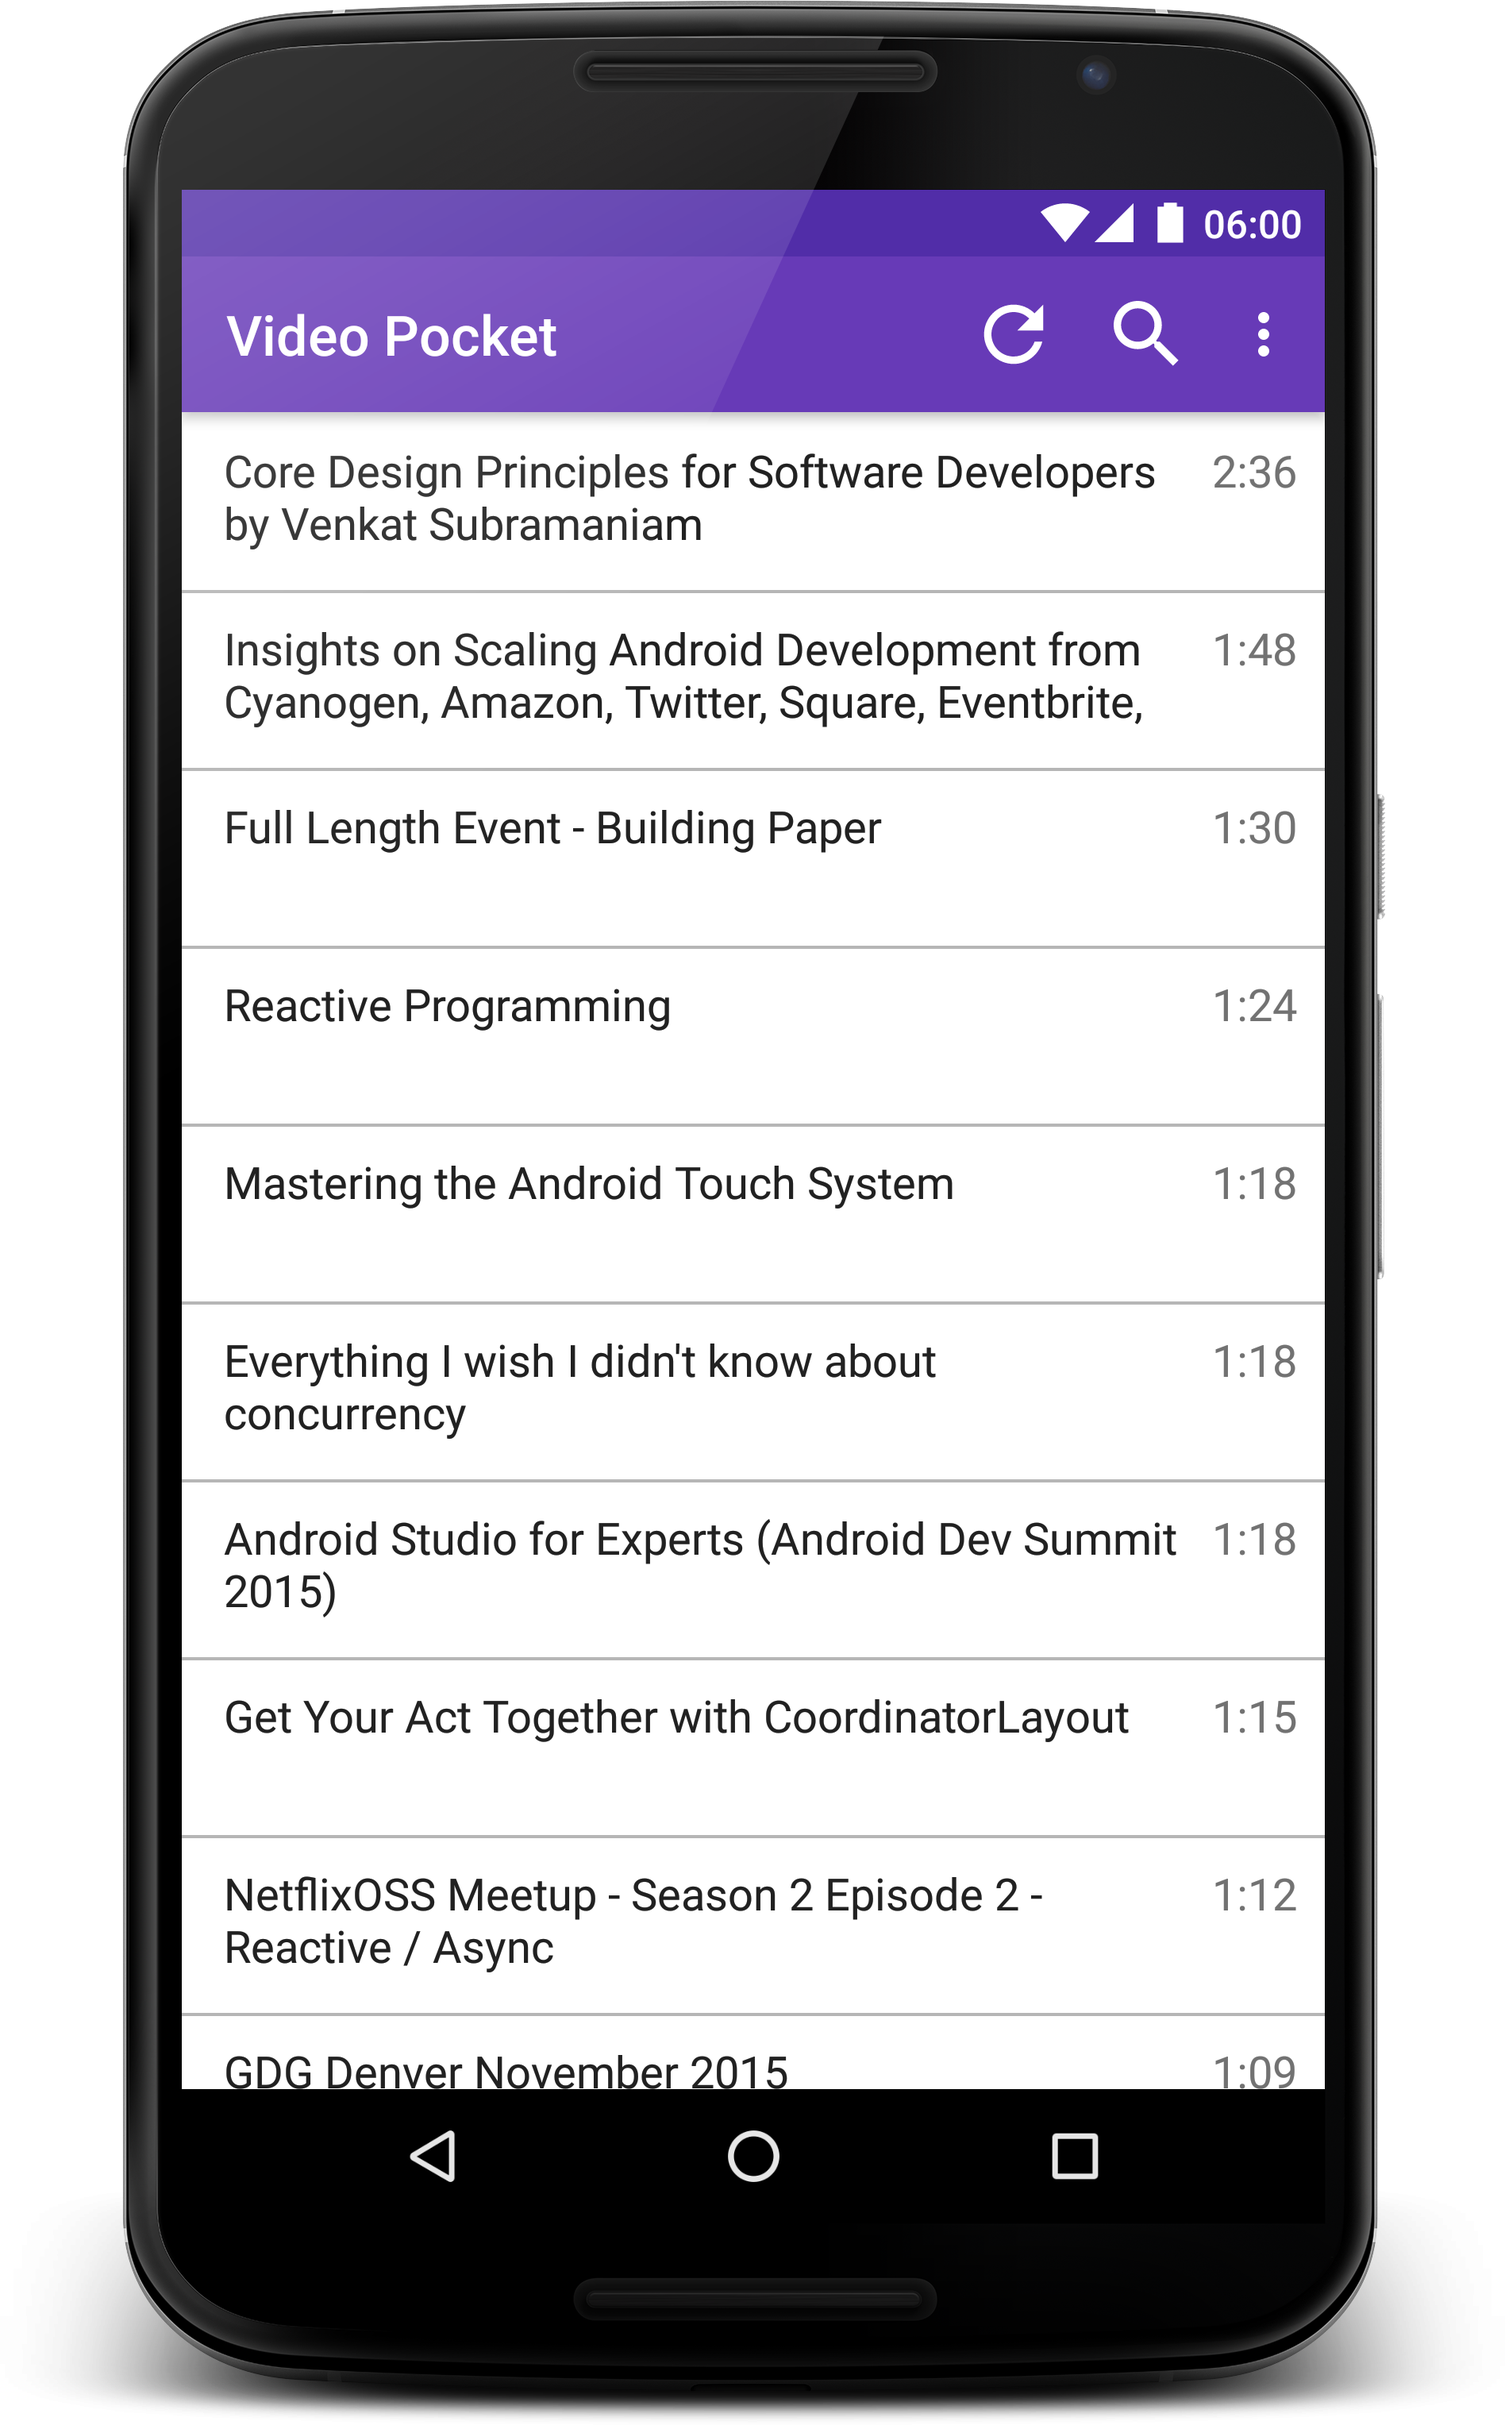
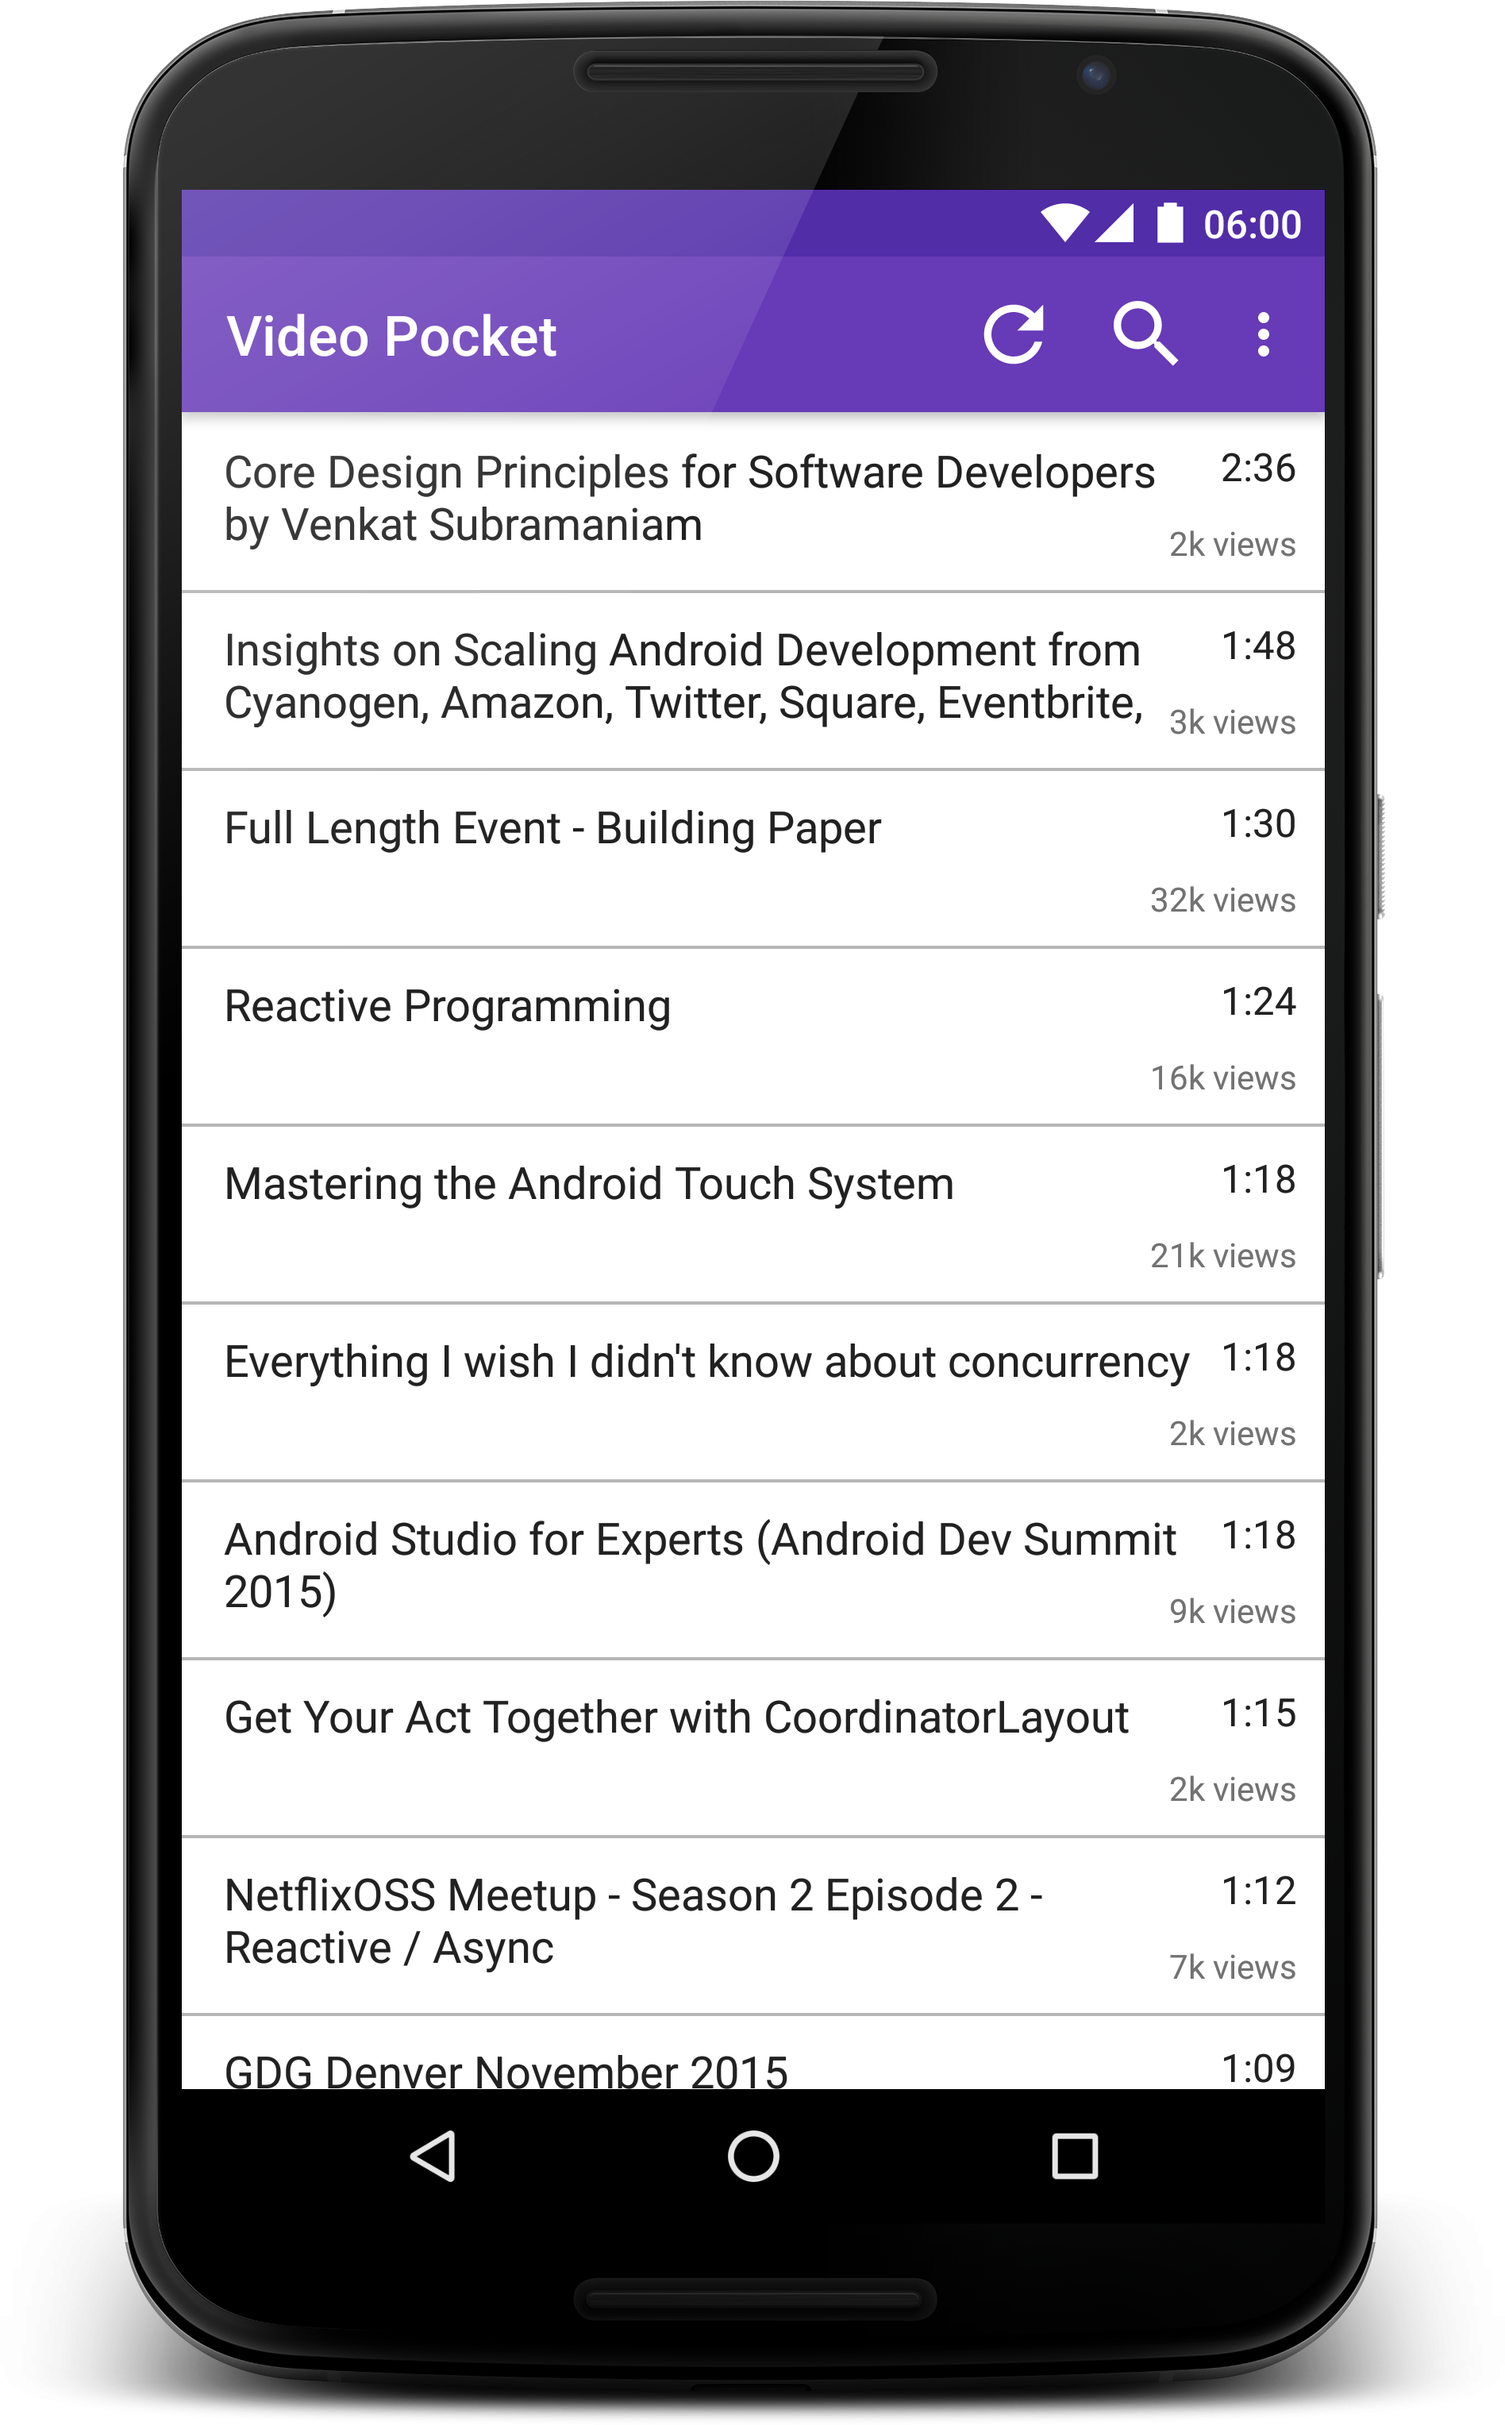
Add number of views on a video to layout

diff --git a/app/src/main/java/com/emmaguy/videopocket/feature/video/VideoAdapter.java b/app/src/main/java/com/emmaguy/videopocket/feature/video/VideoAdapter.java
@@ -32,13 +32,7 @@ class VideoAdapter extends RecyclerView.Adapter<VideoAdapter.ViewHolder> {
 
     @Override public void onBindViewHolder(final ViewHolder holder, final int position) {
         final Video video = videos.get(position);
-        holder.title.setText(video.getTitle());
-
-        final Duration duration = video.getDuration();
-
-        final long durationInMinutes = duration.getSeconds() / (SECONDS_IN_A_MINUTE * SECONDS_IN_A_MINUTE);
-        final long durationInSeconds = (duration.getSeconds() % (SECONDS_IN_A_MINUTE * SECONDS_IN_A_MINUTE)) / SECONDS_IN_A_MINUTE;
-        holder.duration.setText(String.format("%d:%02d", durationInMinutes, durationInSeconds));
+        holder.setVideo(video);
     }
 
     @Override public int getItemCount() {
@@ -67,8 +61,9 @@ class VideoAdapter extends RecyclerView.Adapter<VideoAdapter.ViewHolder> {
     static class ViewHolder extends RecyclerView.ViewHolder {
         private final List<Video> videos;
 
-        @Bind(R.id.videos_title) TextView title;
-        @Bind(R.id.videos_duration) TextView duration;
+        @Bind(R.id.video_title) TextView title;
+        @Bind(R.id.video_duration) TextView duration;
+        @Bind(R.id.video_view_count) TextView viewCount;
 
         ViewHolder(@NonNull final View view, @NonNull final List<Video> videos) {
             super(view);
@@ -80,6 +75,16 @@ class VideoAdapter extends RecyclerView.Adapter<VideoAdapter.ViewHolder> {
         @OnClick(R.id.videos_video_item_container) void onViewClicked() {
             final Video video = videos.get(getAdapterPosition());
             itemView.getContext().startActivity(new Intent(Intent.ACTION_VIEW, Uri.parse(video.getUrl())));
+        }
+
+        private void setVideo(@NonNull final Video video) {
+            title.setText(video.getTitle());
+            viewCount.setText(title.getResources().getString(R.string.views_format, video.getViewCount()));
+
+            final Duration dur = video.getDuration();
+            final long durationInMinutes = dur.getSeconds() / (SECONDS_IN_A_MINUTE * SECONDS_IN_A_MINUTE);
+            final long durationInSeconds = (dur.getSeconds() % (SECONDS_IN_A_MINUTE * SECONDS_IN_A_MINUTE)) / SECONDS_IN_A_MINUTE;
+            duration.setText(String.format("%d:%02d", durationInMinutes, durationInSeconds));
         }
     }
 }

diff --git a/app/src/main/java/com/emmaguy/videopocket/feature/video/YouTubeVideoResponse.java b/app/src/main/java/com/emmaguy/videopocket/feature/video/YouTubeVideoResponse.java
@@ -1,11 +1,9 @@
 package com.emmaguy.videopocket.feature.video;
 
-import com.google.gson.annotations.SerializedName;
-
 import java.util.List;
 
 class YouTubeVideoResponse {
-    @SerializedName("items") private final List<YouTubeResponse> items;
+    private final List<YouTubeResponse> items;
 
     YouTubeVideoResponse(List<YouTubeResponse> items) {
         this.items = items;
@@ -16,16 +14,22 @@ class YouTubeVideoResponse {
     }
 
     static class YouTubeResponse {
-        @SerializedName("contentDetails") private final ContentDetails contentDetails;
-        @SerializedName("id") private final String id;
+        private final Statistics statistics;
+        private final ContentDetails contentDetails;
+        private final String id;
 
-        YouTubeResponse(ContentDetails contentDetails, String id) {
+        YouTubeResponse(ContentDetails contentDetails, Statistics statistics, String id) {
             this.contentDetails = contentDetails;
             this.id = id;
+            this.statistics = statistics;
         }
 
         ContentDetails getContentDetails() {
             return contentDetails;
+        }
+
+        Statistics getStatistics() {
+            return statistics;
         }
 
         String getId() {
@@ -33,7 +37,7 @@ class YouTubeVideoResponse {
         }
 
         static class ContentDetails {
-            @SerializedName("duration") private final String duration;
+            private final String duration;
 
             ContentDetails(String duration) {
                 this.duration = duration;
@@ -41,6 +45,18 @@ class YouTubeVideoResponse {
 
             String getDuration() {
                 return duration;
+            }
+        }
+
+        class Statistics {
+            private final long viewCount;
+
+            Statistics(final long viewCount) {
+                this.viewCount = viewCount;
+            }
+
+            long getViewCount() {
+                return viewCount;
             }
         }
     }

diff --git a/app/src/main/java/com/emmaguy/videopocket/feature/video/VideoPresenter.java b/app/src/main/java/com/emmaguy/videopocket/feature/video/VideoPresenter.java
@@ -13,14 +13,12 @@ import com.emmaguy.videopocket.storage.UserStorage;
 import com.emmaguy.videopocket.storage.VideoStorage;
 import com.google.gson.Gson;
 import com.google.gson.annotations.SerializedName;
-import com.google.gson.internal.LinkedHashTreeMap;
 import com.squareup.okhttp.MediaType;
 import com.squareup.okhttp.RequestBody;
 
 import java.util.ArrayList;
 import java.util.Collection;
 import java.util.HashMap;
-import java.util.LinkedHashMap;
 import java.util.List;
 import java.util.Map;
 import java.util.TreeMap;
@@ -215,12 +213,12 @@ class VideoPresenter extends BasePresenter<VideoPresenter.View> {
                 .map(result -> result.response().body().getItems())
                 .flatMap(Observable::from)
                 .filter(r -> r.getContentDetails() != null)
-                .map(r -> new YouTubeVideo(r.getId(), r.getContentDetails().getDuration()))
-                .filter(youTubeVideo -> youTubeVideo.getDuration() != null)
+                .map(r -> new YouTubeVideo(r.getId(), r.getContentDetails().getDuration(), r.getStatistics().getViewCount()))
                 .map(youTubeVideo -> {
                     for (PocketVideo pocketVideo : pocketVideos) {
                         if (pocketVideo.getUrl().contains(youTubeVideo.getId())) {
-                            return new Video(pocketVideo.getId(), pocketVideo.getTitle(), pocketVideo.getUrl(), youTubeVideo.getDuration());
+                            return new Video(pocketVideo.getId(), pocketVideo.getTitle(), pocketVideo.getUrl(),
+                                    youTubeVideo.getDuration(), youTubeVideo.getViewCount());
                         }
                     }
                     return null;

diff --git a/app/src/main/java/com/emmaguy/videopocket/feature/video/YouTubeVideo.java b/app/src/main/java/com/emmaguy/videopocket/feature/video/YouTubeVideo.java
@@ -6,10 +6,14 @@ import org.threeten.bp.Duration;
 
 class YouTubeVideo {
     private final String id;
+    private final String viewCount;
     private final Duration duration;
 
-    YouTubeVideo(@NonNull final String id, @NonNull final String duration) {
+    private static char[] formatSuffix = new char[]{'k', 'm', 'b', 't'};
+
+    YouTubeVideo(@NonNull final String id, @NonNull final String duration, final long viewCount) {
         this.id = id;
+        this.viewCount = format(viewCount, 0);
         this.duration = Duration.parse(duration);
     }
 
@@ -19,5 +23,22 @@ class YouTubeVideo {
 
     @NonNull public Duration getDuration() {
         return duration;
+    }
+
+    public String getViewCount() {
+        return viewCount;
+    }
+
+    // Format a long number to the nearest unit - e.g. 1000 -> 1k
+    private static String format(long n, int iteration) {
+        if (n < 1000) {
+            return String.valueOf(n);
+        }
+
+        long d = (n / 100) / 10;
+        boolean isRound = (d * 10) % 10 == 0;
+        return (d < 1000 ? ((d > 99.9 || isRound || (d > 9.99) ?
+                (int) d * 10 / 10 : d + "") + "" + formatSuffix[iteration]) :
+                format(d, iteration + 1));
     }
 }

diff --git a/app/src/main/java/com/emmaguy/videopocket/feature/video/Video.java b/app/src/main/java/com/emmaguy/videopocket/feature/video/Video.java
@@ -9,12 +9,15 @@ public class Video {
     private final String title;
     private final String url;
     private final Duration duration;
+    private final String viewCount;
 
-    Video(final long id, @NonNull final String title, @NonNull final String url, @NonNull final Duration duration) {
+    Video(final long id, @NonNull final String title, @NonNull final String url, @NonNull final Duration duration,
+          @NonNull final String viewCount) {
         this.id = id;
         this.title = title;
         this.url = url;
         this.duration = duration;
+        this.viewCount = viewCount;
     }
 
     long getId() {
@@ -31,5 +34,9 @@ public class Video {
 
     @NonNull Duration getDuration() {
         return duration;
+    }
+
+    @NonNull String getViewCount() {
+        return viewCount;
     }
 }

diff --git a/app/src/main/java/com/emmaguy/videopocket/feature/video/YouTubeApi.java b/app/src/main/java/com/emmaguy/videopocket/feature/video/YouTubeApi.java
@@ -9,6 +9,6 @@ import retrofit.http.QueryMap;
 import rx.Observable;
 
 interface YouTubeApi {
-    @GET("/youtube/v3/videos?part=contentDetails") Observable<Result<YouTubeVideoResponse>> videoData(
+    @GET("/youtube/v3/videos?part=contentDetails,statistics") Observable<Result<YouTubeVideoResponse>> videoData(
             @QueryMap(encoded = false) final Map<String, String> videoIds, @Query("key") final String apiKey);
 }
